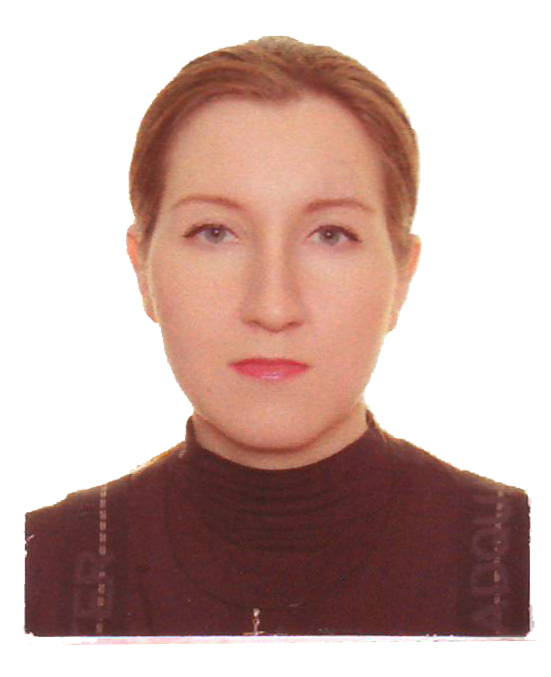
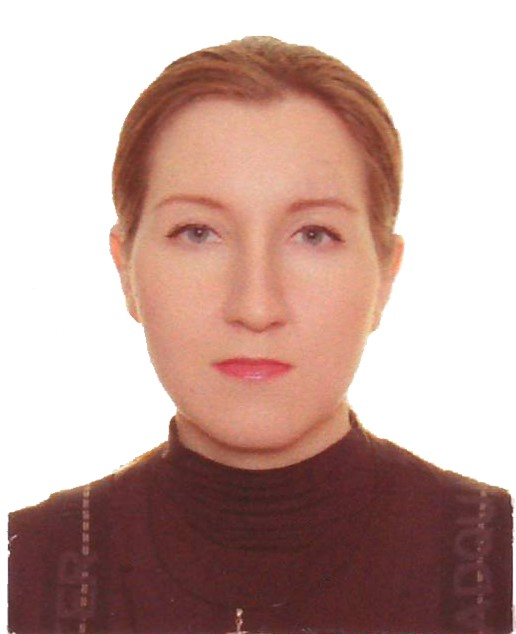
feat-edit HTML and CSS for CV3

Changed region(s): [[0.0, 0.1199, 1.0, 1.0], [0.3101, 0.03, 0.6822, 0.1798], [0.2791, 0.1199, 0.3101, 0.1498]]

diff --git a/index.html b/index.html
@@ -7,7 +7,119 @@
     <link rel="stylesheet" href="style.css">
 </head>
 <body>
-    <h1>Irina Lichman</h1>
-    <p>Experienced IT professional passionate about learning new technologies</p>
+    <div class="container">
+        <header>
+            <div class="header-content">
+                <img src="photo.jpg" alt="Irina Lichman" class="avatar">
+                <div class="title">
+                    <h1>Irina Lichman</h1>
+                    <p class="subtitle">IT Professional | Database Specialist | Aspiring Front-end Developer</p>
+                </div>
+            </div>
+            <nav>
+                <ul>
+                    <li><a href="#about">About</a></li>
+                    <li><a href="#skills">Skills</a></li>
+                    <li><a href="#experience">Experience</a></li>
+                    <li><a href="#projects">Projects</a></li>
+                    <li><a href="#education">Education</a></li>
+                </ul>
+            </nav>
+        </header>
+
+        <main>
+            <section id="about">
+                <h2>About Me</h2>
+                <p>Analytical and results-driven IT professional with over 18 years of experience in system support, data analysis, and PL/SQL development. Passionate about transitioning into modern web development, combining strong backend logic with frontend creativity.</p>
+            </section>
+
+            <section id="contacts">
+                <h2>Contact Me</h2>
+                <ul>
+                    <li>Discord: @katiakraft8826</li>
+                    <li>Email: markiana@mail.ru</li>
+                    <li>Phone: +7 701 591-03-15</li>
+                    <li>GitHub: <a href="https://github.com/Libridzh">Libridzh</a></li>
+                </ul>
+            </section>
+
+            <section id="skills">
+                <h2>Skills</h2>
+                <ul>
+                    <li>Oracle PL/SQL (Advanced)</li>
+                    <li>SQL, MySQL, Oracle DB</li>
+                    <li>Delphi, HTML5, CSS3</li>
+                    <li>Git, GitHub Pages</li>
+                    <li>Software Testing, Technical Support</li>
+                    <li>English: Intermediate (B1)</li>
+                </ul>
+            </section>
+
+            <section id="projects">
+                <h2>My Projects</h2>
+                <ul>
+                    <li><strong>CV in Markdown:</strong> <a href="https://Libridzh.github.io/rsschool-cv/cv">View Markdown CV</a> — my first CV created with Markdown and deployed via GitHub Pages.</li>
+                    <li><strong>CV in HTML/CSS:</strong> <a href="https://Libridzh.github.io/rsschool-cv/">View Styled CV</a> — current project, fully styled CV using semantic HTML and CSS.</li>
+                </ul>
+            </section>
+
+            <section id="experience">
+                <h2>Work Experience</h2>
+                <div class="job">
+                    <h3>Lead IT Specialist @ Bogatyr Komir LLP</h3>
+                    <p class="date">July 2017 – Present</p>
+                    <ul>
+                        <li>Corporate information systems support and PL/SQL development.</li>
+                        <li>Internal applications development (Delphi).</li>
+                        <li>Data analysis and testing.</li>
+                    </ul>
+                </div>
+                <div class="job">
+                    <h3>Web Developer @ City Library</h3>
+                    <p class="date">January 2018 – March 2020</p>
+                    <ul>
+                        <li>Developed and maintained library website and online catalog.</li>
+                        <li>Implemented responsive design and digital services.</li>
+                    </ul>
+                </div>
+                <div class="job">
+                    <h3>Software Engineer @ Pavlodarenergo JSC</h3>
+                    <p class="date">August 2007 – January 2016</p>
+                    <ul>
+                        <li>Specialized energy sector software (Luka.Pro, Elipse).</li>
+                        <li>IT infrastructure support and documentation.</li>
+                    </ul>
+                </div>
+            </section>
+
+            <section id="education">
+                <h2>Education</h2>
+                <div class="education-item">
+                    <h3>Ekibastuz Engineering and Technical Institute (EITI)</h3>
+                    <p class="date">2002 – 2007</p>
+                    <p>Information Systems in Engineering, Engineer-System Technician</p>
+                    <p><strong>Diploma with Honors</strong></p>
+                </div>
+                <div class="education-item">
+                    <h3>Courses</h3>
+                    <ul>
+                        <li>Rolling Scopes School — JavaScript/Front-end (in progress)</li>
+                        <li>Git & Version Control Fundamentals (self-study)</li>
+                    </ul>
+                </div>
+            </section>
+        </main>
+
+        <footer>
+            <p>&copy; 2026 Irina Lichman</p>
+            <p>
+                <a href="https://github.com/Libridzh">GitHub</a> |
+                <a href="https://rs.school/">
+                    <img src="https://raw.githubusercontent.com/rolling-scopes-school/tasks/0b9490ff1b5493242c862130c81d9c9edaa16f8a/tasks/cv/rs-school-logo.svg" alt="Rolling Scopes School Logo" width="70">
+                    RS School
+                </a>
+            </p>
+        </footer>
+    </div>
 </body>
 </html>

diff --git a/style.css b/style.css
@@ -1,9 +1,176 @@
-body {
-    font-family: Arial, sans-serif;
-    margin: 20px;
-    background-color: #f4f4f4;
+* {
+    margin: 0;
+    padding: 0;
+    box-sizing: border-box;
 }
 
-h1 {
+body {
+    font-family: 'Segoe UI', Tahoma, Geneva, Verdana, sans-serif;
+    line-height: 1.6;
+    color: #333;
+    background-color: #f0f2f5;
+    padding: 20px;
+}
+
+.container {
+    max-width: 1000px;
+    margin: 0 auto;
+    background-color: #fff;
+    border-radius: 8px;
+    box-shadow: 0 0 20px rgba(0,0,0,0.1);
+    overflow: hidden;
+}
+
+header {
+    background-color: #2c3e50;
+    color: #fff;
+    padding: 20px;
+}
+
+.header-content {
+    display: flex;
+    align-items: center;
+    gap: 20px;
+    flex-wrap: wrap;
+}
+
+.avatar {
+    width: 120px;
+    height: 120px;
+    border-radius: 50%;
+    object-fit: cover;
+    border: 3px solid #fff;
+    background-color: #ecf0f1;
+}
+
+.title h1 {
+    font-size: 2rem;
+    margin-bottom: 5px;
+}
+
+.subtitle {
+    font-size: 1.1rem;
+    opacity: 0.9;
+}
+
+nav ul {
+    display: flex;
+    list-style: none;
+    gap: 20px;
+    margin-top: 20px;
+    flex-wrap: wrap;
+}
+
+nav a {
+    color: #fff;
+    text-decoration: none;
+    font-weight: bold;
+    transition: opacity 0.3s;
+}
+
+nav a:hover {
+    opacity: 0.7;
+    text-decoration: underline;
+}
+
+main {
+    padding: 30px;
+}
+
+section {
+    margin-bottom: 30px;
+    scroll-margin-top: 20px;
+}
+
+h2 {
     color: #2c3e50;
+    border-bottom: 2px solid #3498db;
+    padding-bottom: 8px;
+    margin-bottom: 15px;
+    font-size: 1.5rem;
+}
+
+h3 {
+    color: #2980b9;
+    margin: 10px 0 5px;
+}
+
+.date {
+    font-size: 0.9rem;
+    color: #7f8c8d;
+    margin-bottom: 8px;
+}
+
+ul {
+    margin-left: 20px;
+    margin-top: 5px;
+}
+
+li {
+    margin-bottom: 5px;
+}
+
+a {
+    color: #3498db;
+    text-decoration: none;
+}
+
+a:hover {
+    text-decoration: underline;
+}
+
+pre {
+    background-color: #f4f4f4;
+    padding: 10px;
+    border-left: 4px solid #3498db;
+    overflow-x: auto;
+    font-family: 'Courier New', monospace;
+    margin-top: 5px;
+}
+
+code {
+    font-family: 'Courier New', monospace;
+}
+
+.job, .education-item {
+    margin-bottom: 20px;
+    padding-left: 10px;
+    border-left: 3px solid #ecf0f1;
+}
+
+footer {
+    background-color: #2c3e50;
+    color: #fff;
+    text-align: center;
+    padding: 15px;
+    font-size: 0.9rem;
+}
+
+footer a {
+    color: #fff;
+    text-decoration: none;
+    margin: 0 5px;
+}
+
+footer a:hover {
+    text-decoration: underline;
+}
+
+footer img {
+    vertical-align: middle;
+}
+
+@media (max-width: 600px) {
+    .header-content {
+        flex-direction: column;
+        text-align: center;
+    }
+
+    nav ul {
+        justify-content: center;
+    }
+
+    main {
+        padding: 20px;
+    }
 }
